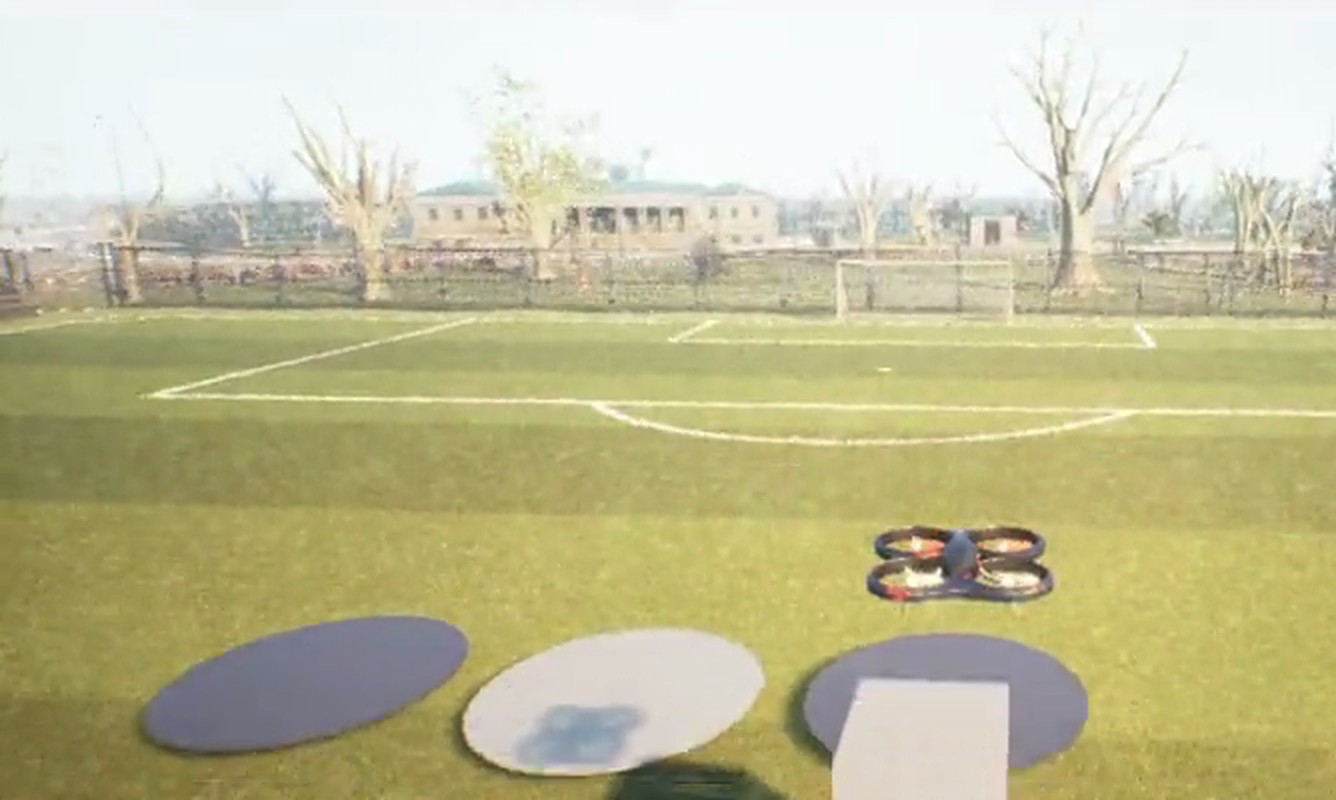
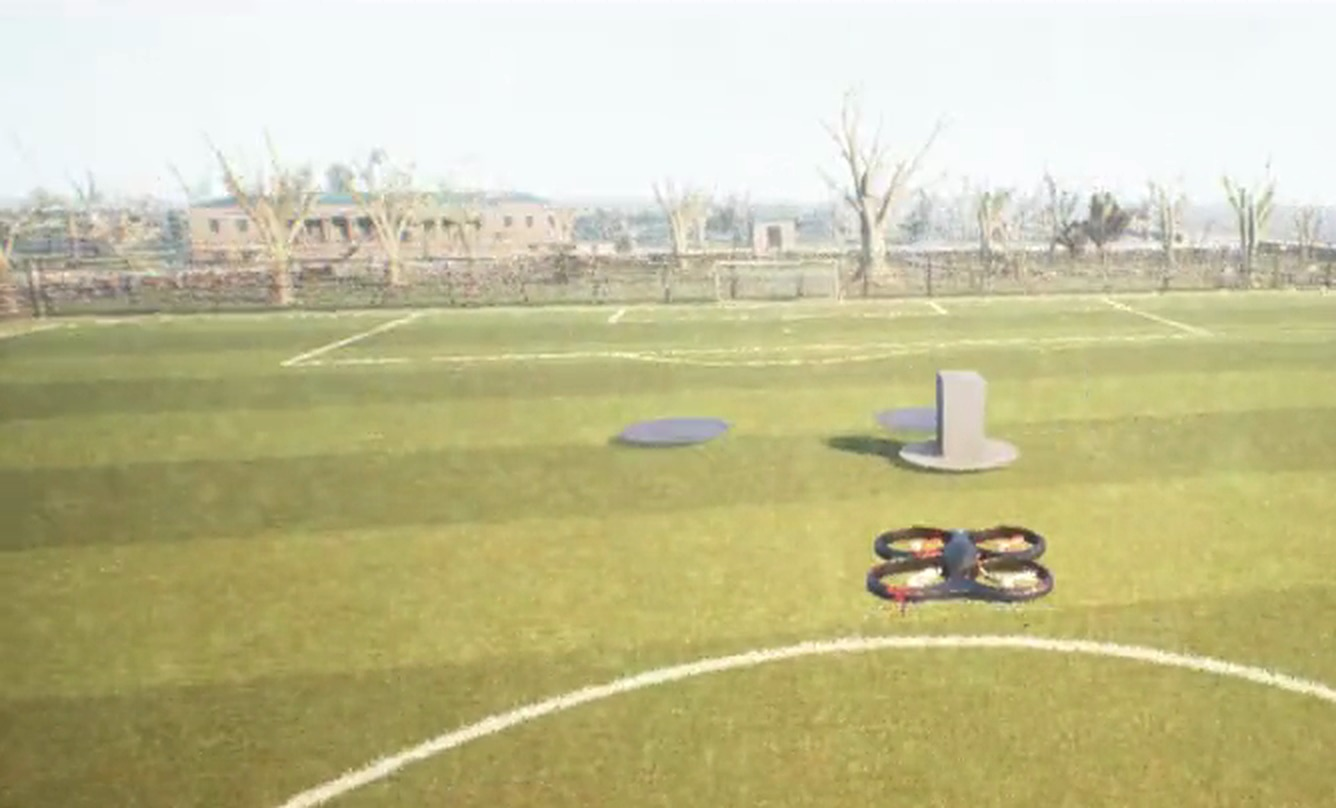
new hero: the drone with a blocked landing pad
The old hero had three circles and a block whose relation to them was unclear.
This is a chase camera frame from a land_or_hold flight where the pad has a
white block standing on it, so there is one pad, one obstruction, and the drone
in shot.

Trimmed to drop the telemetry bar that bled into the bottom of the first crop.

diff --git a/posts/aerialsim-env/index.html b/posts/aerialsim-env/index.html
@@ -19,7 +19,7 @@
 </header>
 
 <figure class="hero">
-  <img src="hero.jpg" alt="A drone hovering over a grass field between two landing pads, one clear and one with a block sitting on it" width="1336" height="800">
+  <img src="hero.jpg" alt="A drone hovering over a grass field, with a landing pad behind it that has a white block standing on it" width="1336" height="808">
 </figure>
 
 <p>Vision-language models have become increasingly capable of understanding images and videos. AerialSim extends these capabilities to autonomous drone missions that require visual perception, spatial reasoning, planning, and physical action.</p>
